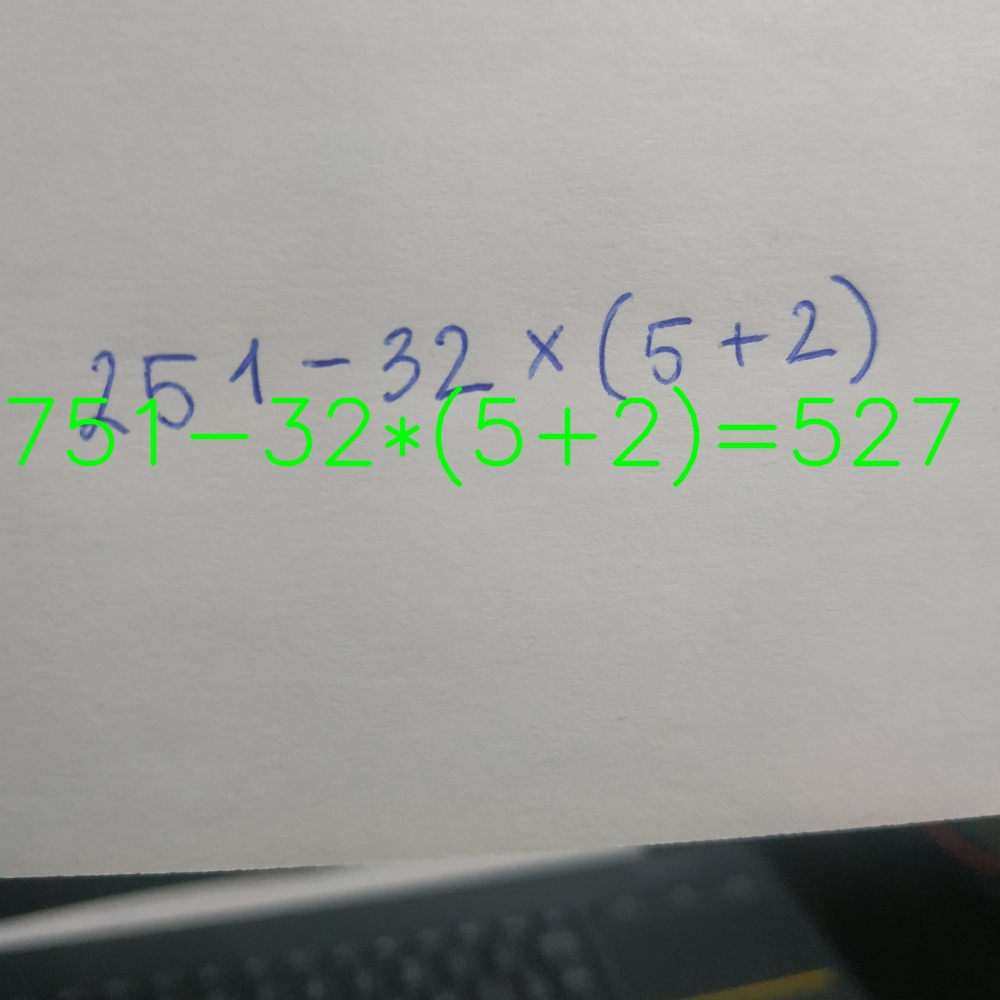
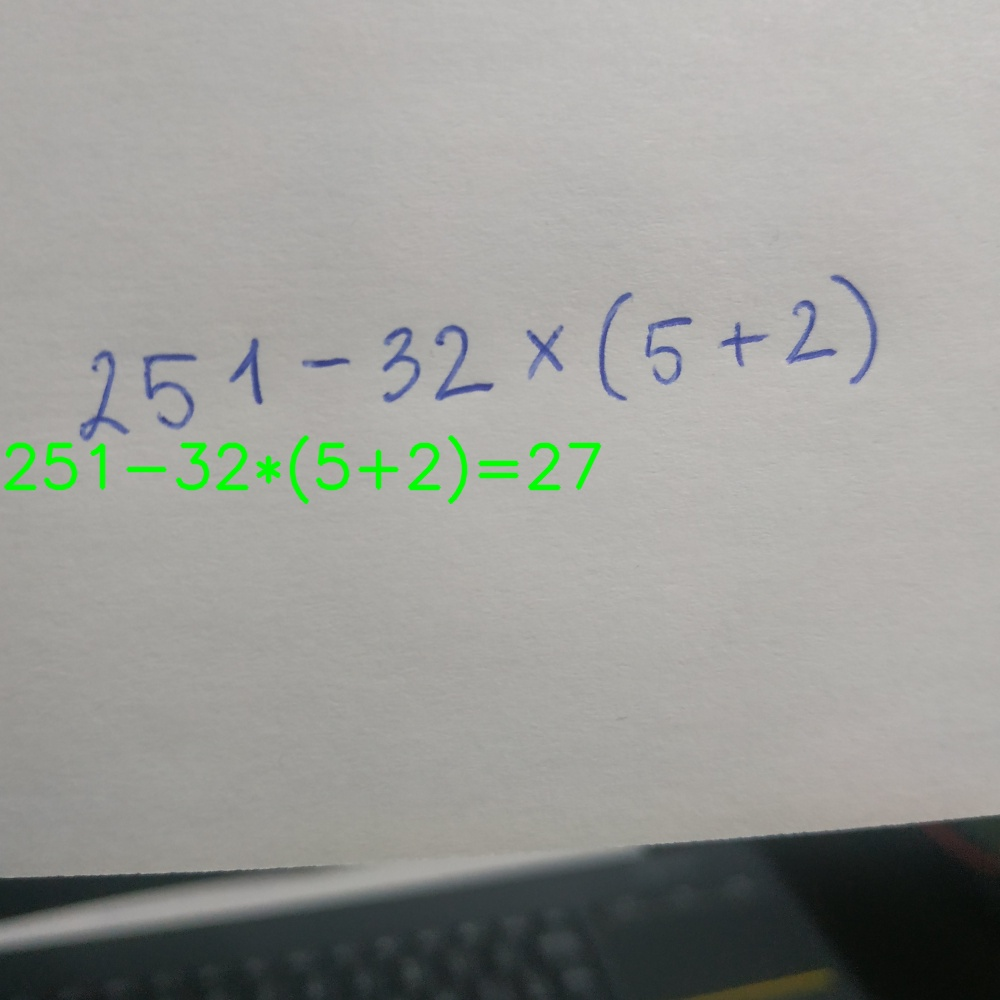
FIX: Increase detected-text-box height

Changed region(s): [[0.0, 0.372, 0.961, 0.496]]

diff --git a/main.py b/main.py
@@ -31,7 +31,7 @@ try:
     ###################################################################
     try:
         ## SET WORKING IMAGE ##############################################
-        im_index = 9
+        im_index = 4
         working_im = working_ims[im_index]
         working_im = resize_image_by_dim(working_im, WORKING_IM_WIDTH, WORKING_IM_HEIGHT)
         show_image(working_im)
@@ -60,7 +60,7 @@ try:
                 # Put image over a square canvas
                 im_gray = add_square_canvas_to_image(im_gray)
                 im_gray = add_borders_to_image(im_gray, border_scale=0.2, color=(0, 0, 0))
-                show_image(im_gray)
+                # show_image(im_gray)
 
                 # Resize image to (28,28)
                 im_gray = cv2.resize(im_gray, (28, 28), interpolation=cv2.INTER_AREA)
@@ -84,7 +84,7 @@ try:
         for (exp, box) in zip(expression_list, boxes):
             str_exp, result = solve_expression(exp)
             if len(result) > 0:
-                print(str_exp, '=', result)
+                print('Processed expression: ', str_exp, '=', result)
                 # Show expression result on image
                 x_pos = box[0]
                 y_pos = (box[3] + message_height_offset) if (box[3] + message_height_offset) < im_result.shape[0] else im_result.shape[0]

diff --git a/text_detection.py b/text_detection.py
@@ -101,7 +101,7 @@ def detect_text_on_image(img, min_confidence):
 
     # Re-scale the boxes and draw them over the original image
     offset_scale_x = 0.5  # increasing scale of x-dim of the bounding rectangle size
-    offset_scale_y = 0.6  # increasing scale of y-dim of the bounding rectangle size
+    offset_scale_y = 1.1  # increasing scale of y-dim of the bounding rectangle size
 
     original_height = np.array(original).shape[0]
     original_width = np.array(original).shape[1]

diff --git a/utils.py b/utils.py
@@ -50,9 +50,9 @@ def get_boxes_as_images(boxes, img): # 'boxes' item:(start_x, start_y, end_x, en
 def write_message_on_img(img, message, position):
     RED = (0, 255, 0)
     font = cv2.FONT_HERSHEY_SIMPLEX
-    font_size = 3
+    font_size = 2
     font_color = RED
-    font_thickness = 4
+    font_thickness = 3
 
     img_text = cv2.putText(img, message, position, font, font_size, font_color, font_thickness, cv2.LINE_AA)
 
